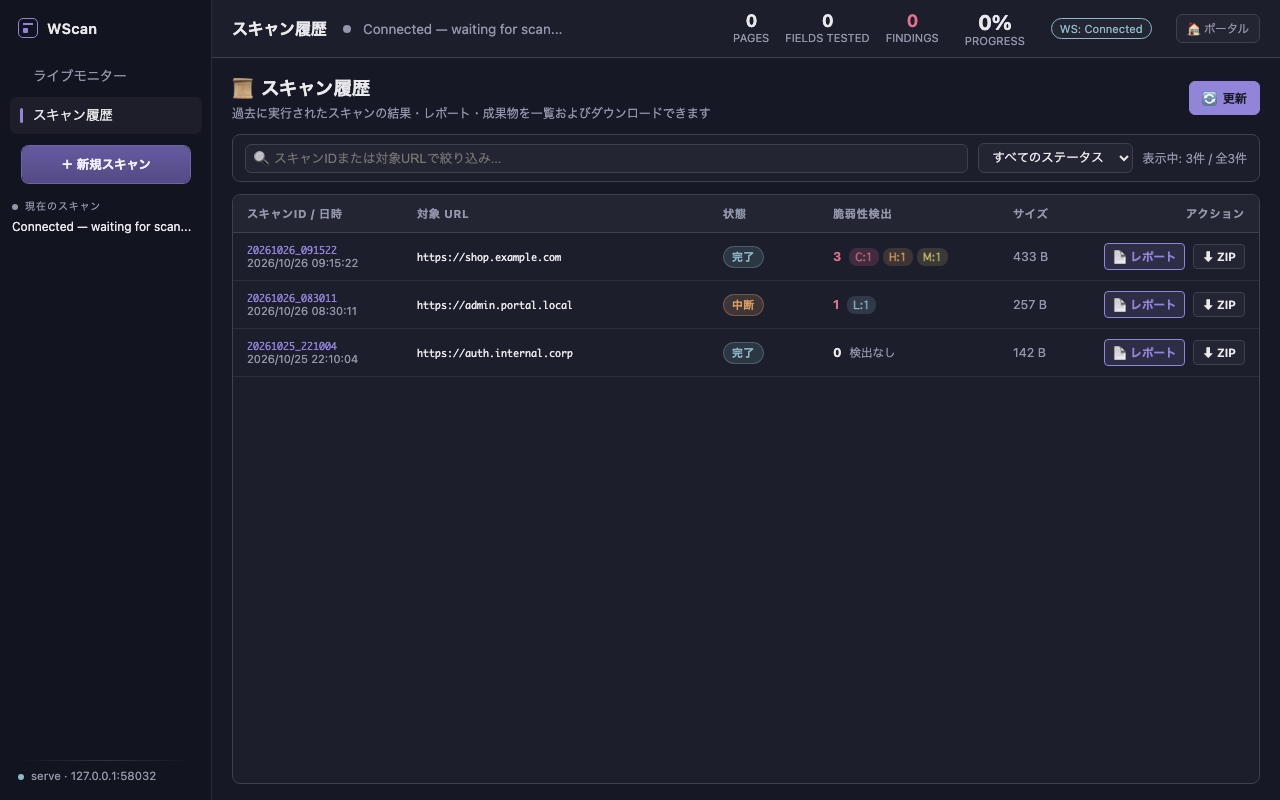
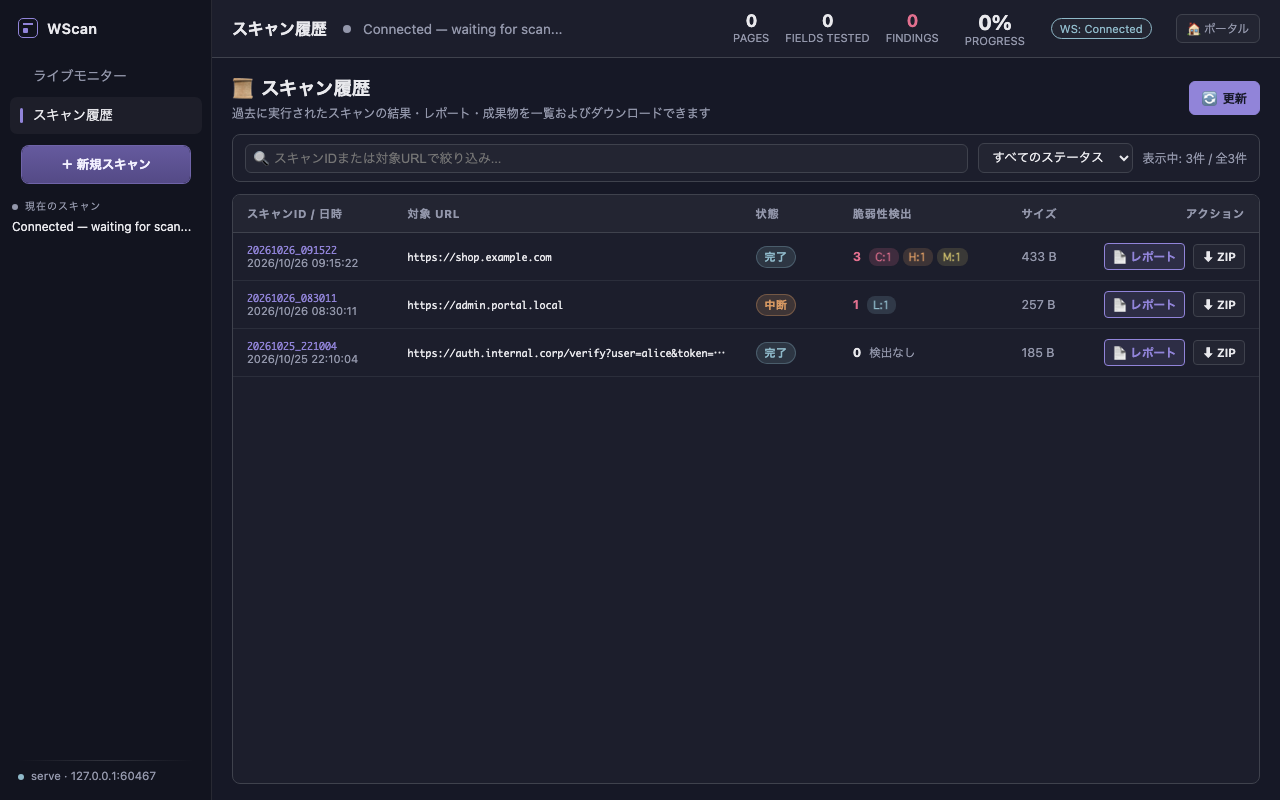
fix(dashboard): redact sensitive URL credentials in scan history and handle HTTP 401
- Implement redactDisplayUrl matching canonical SENSITIVE_URL_KEY to mask userinfo, query, and fragment secrets in history table display and tooltips
- Add HTTP 401 Unauthorized friendly error handling on scan history API fetch
- Expand tests in tests/test_dashboard_scan_history.py with URL privacy secret canary verification, HTTP 401/network error retry, and background WebSocket liveness
- Refresh screenshot in docs/images/dashboard-scan-history.png

diff --git a/templates/dashboard.html b/templates/dashboard.html
@@ -6638,6 +6638,55 @@ function onHistoryFilterChange(val) {
   renderHistoryTable();
 }
 
+function redactDisplayUrl(raw) {
+  if (!raw || typeof raw !== 'string') return raw || '';
+  const str = raw.trim();
+  if (!str) return '';
+  let result = str;
+  // 1. userinfo: scheme://user:pass@host -> scheme://<redacted>@host
+  const schemeMatch = str.match(/^[a-z][a-z0-9+.-]*:\/\//i);
+  if (schemeMatch) {
+    const after = str.slice(schemeMatch[0].length);
+    const cutIndices = [after.indexOf('/'), after.indexOf('?'), after.indexOf('#')].filter(i => i !== -1);
+    const authEnd = cutIndices.length ? Math.min(...cutIndices) : after.length;
+    const auth = after.slice(0, authEnd);
+    if (auth.includes('@')) {
+      const host = auth.slice(auth.lastIndexOf('@') + 1);
+      result = schemeMatch[0] + '<redacted>@' + host + after.slice(authEnd);
+    }
+  }
+
+  function maskKv(text) {
+    if (!text) return text;
+    return text.replace(/([^&=?\s]*)=([^&]*)/g, (match, k, v) => {
+      try {
+        const decoded = decodeURIComponent(k);
+        if (CONFIG_SENSITIVE_URL_KEY.test(decoded)) return `${k}=<redacted>`;
+      } catch (_) {
+        if (CONFIG_SENSITIVE_URL_KEY.test(k)) return `${k}=<redacted>`;
+      }
+      return match;
+    });
+  }
+
+  // 2. Query and fragment
+  if (result.includes('?')) {
+    const qParts = result.split('?', 2);
+    const base = qParts[0];
+    const rest = qParts[1];
+    if (rest.includes('#')) {
+      const fParts = rest.split('#', 2);
+      result = `${base}?${maskKv(fParts[0])}#${maskKv(fParts[1])}`;
+    } else {
+      result = `${base}?${maskKv(rest)}`;
+    }
+  } else if (result.includes('#')) {
+    const fParts = result.split('#', 2);
+    result = `${fParts[0]}#${maskKv(fParts[1])}`;
+  }
+  return result;
+}
+
 function formatHistoryBytes(bytes) {
   if (typeof bytes !== 'number' || isNaN(bytes) || bytes <= 0) return '—';
   if (bytes < 1024) return bytes + ' B';
@@ -6681,6 +6730,9 @@ async function loadScanHistory() {
   try {
     const res = await fetch('/api/v1/scans');
     if (!res.ok) {
+      if (res.status === 401) {
+        throw new Error('認証が必要です (HTTP 401 Unauthorized)。ログインするか認証トークンを確認してください。');
+      }
       throw new Error(`HTTP ${res.status}: ${res.statusText}`);
     }
     const data = await res.json();
@@ -6743,13 +6795,14 @@ function renderHistoryTable() {
     tdId.appendChild(dateDiv);
     tr.appendChild(tdId);
 
-    // 2. Target URL
+    // 2. Target URL (safely redacted to remove credential secrets)
     const tdTarget = document.createElement('td');
     const targetDiv = document.createElement('div');
     targetDiv.className = 'history-target-cell';
-    const targetText = scan.target ? scan.target.trim() : '—';
-    targetDiv.textContent = targetText;
-    targetDiv.title = targetText;
+    const rawTarget = scan.target ? scan.target.trim() : '';
+    const safeTarget = rawTarget ? redactDisplayUrl(rawTarget) : '—';
+    targetDiv.textContent = safeTarget;
+    targetDiv.title = safeTarget;
     tdTarget.appendChild(targetDiv);
     tr.appendChild(tdTarget);
 

diff --git a/tests/test_dashboard_scan_history.py b/tests/test_dashboard_scan_history.py
@@ -140,6 +140,16 @@ def test_dashboard_scan_history_playwright_e2e(tmp_path, monkeypatch):
         "findings": []
     }), encoding="utf-8")
 
+    # Add scan with secret canaries to verify URL privacy redaction
+    scan_secrets = tmp_path / "20261026_140000"
+    scan_secrets.mkdir()
+    (scan_secrets / "evidence.json").write_text(json.dumps({
+        "target": "https://admin:CANARY_SECRET_PASS@portal.corp/app?token=CANARY_QUERY_SECRET&safe=ok#access_token=CANARY_FRAG_SECRET",
+        "scan_date": "2026-10-26T14:00:00",
+        "status": "done",
+        "findings": []
+    }), encoding="utf-8")
+
     monkeypatch.setattr("wscan.monitor.OUTPUT_BASE", tmp_path)
 
     srv = MonitorServer()
@@ -174,7 +184,7 @@ def test_dashboard_scan_history_playwright_e2e(tmp_path, monkeypatch):
 
             # 4. Table Rows Populated
             rows = page.query_selector_all("#historyTable tbody tr")
-            assert len(rows) == 2
+            assert len(rows) == 3
 
             # Check done scan row
             row_html = page.inner_html("#historyTable tbody")
@@ -191,6 +201,14 @@ def test_dashboard_scan_history_playwright_e2e(tmp_path, monkeypatch):
             assert len(script_tags) == 0
             assert "&lt;script&gt;" in row_html or "<script>" in page.inner_text("#historyTable tbody")
 
+            # Verify URL privacy redaction: credential and sensitive query/fragment canaries are ABSENT
+            assert "CANARY_SECRET_PASS" not in row_html
+            assert "CANARY_QUERY_SECRET" not in row_html
+            assert "CANARY_FRAG_SECRET" not in row_html
+            # Verify redacted form appears in displayed text and title
+            assert "&lt;redacted&gt;@portal.corp" in row_html or "<redacted>@portal.corp" in page.inner_text("#historyTable tbody")
+            assert "token=&lt;redacted&gt;" in row_html or "token=<redacted>" in page.inner_text("#historyTable tbody")
+
             # 5. Search filtering
             page.fill("#historySearchInput", "malicious")
             filtered_rows = page.query_selector_all("#historyTable tbody tr")
@@ -200,12 +218,12 @@ def test_dashboard_scan_history_playwright_e2e(tmp_path, monkeypatch):
             # Clear search
             page.fill("#historySearchInput", "")
             all_rows = page.query_selector_all("#historyTable tbody tr")
-            assert len(all_rows) == 2
+            assert len(all_rows) == 3
 
             # Status filter
             page.select_option("#historyStatusFilter", "done")
             done_rows = page.query_selector_all("#historyTable tbody tr")
-            assert len(done_rows) == 1
+            assert len(done_rows) == 2
             assert "20261026_120000" in page.inner_text("#historyTable tbody")
 
             page.select_option("#historyStatusFilter", "all")
@@ -253,6 +271,111 @@ def test_dashboard_scan_history_empty_state(tmp_path, monkeypatch):
             assert page.is_visible("#historyEmptyState")
             assert not page.is_visible("#historyTableScroll")
             assert "スキャン履歴はありません" in page.inner_text("#historyEmptyState")
+
+            browser.close()
+    finally:
+        server_thread.stop()
+
+
+def test_dashboard_scan_history_fetch_error_and_401(tmp_path, monkeypatch):
+    """Test network error and 401 Unauthorized error state handling."""
+    monkeypatch.setattr("wscan.monitor.OUTPUT_BASE", tmp_path)
+
+    srv = MonitorServer()
+    port = find_free_port()
+    server_thread = UvicornServerThread(srv, port)
+    server_thread.start()
+
+    try:
+        with sync_playwright() as p:
+            browser = p.chromium.launch(headless=True)
+            page = browser.new_page()
+
+            # 1. Simulate 401 Unauthorized on /api/v1/scans
+            page.route("**/api/v1/scans", lambda route: route.fulfill(
+                status=401,
+                body=json.dumps({"detail": "Unauthorized"}),
+                headers={"Content-Type": "application/json"}
+            ))
+
+            page.goto(f"http://127.0.0.1:{port}/monitor")
+            page.click("#navScanHistory")
+            page.wait_for_selector("#historyErrorState")
+
+            assert page.is_visible("#historyErrorState")
+            assert not page.is_visible("#historyTableScroll")
+            err_text = page.inner_text("#historyErrorMessage")
+            assert "401" in err_text or "認証" in err_text
+
+            # 2. Simulate network / fetch failure
+            page.unroute("**/api/v1/scans")
+            page.route("**/api/v1/scans", lambda route: route.abort())
+
+            # Click retry button
+            page.click("#historyErrorState button")
+            page.wait_for_selector("#historyErrorState")
+            assert page.is_visible("#historyErrorState")
+
+            # 3. Simulate recovery after network restored
+            page.unroute("**/api/v1/scans")
+            page.route("**/api/v1/scans", lambda route: route.fulfill(
+                status=200,
+                body=json.dumps({"scans": [], "storage": {}}),
+                headers={"Content-Type": "application/json"}
+            ))
+            page.click("#historyErrorState button")
+            page.wait_for_selector("#historyEmptyState")
+            assert page.is_visible("#historyEmptyState")
+            assert not page.is_visible("#historyErrorState")
+
+            browser.close()
+    finally:
+        server_thread.stop()
+
+
+def test_dashboard_scan_history_background_ws_liveness(tmp_path, monkeypatch):
+    """Test that background WebSocket updates continue while scan history is open."""
+    monkeypatch.setattr("wscan.monitor.OUTPUT_BASE", tmp_path)
+
+    srv = MonitorServer()
+
+    async def emit_test_page():
+        await srv.emit("page_start", {"url": "https://example.com/live-test-page"})
+        return {"ok": True}
+
+    srv.app.add_api_route("/__test__/emit-page", emit_test_page, methods=["POST"])
+
+    port = find_free_port()
+    server_thread = UvicornServerThread(srv, port)
+    server_thread.start()
+
+    try:
+        with sync_playwright() as p:
+            browser = p.chromium.launch(headless=True)
+            page = browser.new_page()
+
+            page.goto(f"http://127.0.0.1:{port}/monitor")
+            page.wait_for_selector("#navLiveMonitor")
+
+            # Switch to Scan History
+            page.click("#navScanHistory")
+            assert page.is_visible("#viewScanHistory")
+            assert not page.is_visible("#viewLiveMonitor")
+
+            # Post to test endpoint inside uvicorn's event loop to trigger WS emit
+            res = page.request.post(f"http://127.0.0.1:{port}/__test__/emit-page")
+            assert res.status == 200
+
+            # Wait for client to process WebSocket message
+            page.wait_for_function("document.getElementById('statPages') && document.getElementById('statPages').textContent.trim() === '1'")
+
+            # Switch back to live monitor and verify state was preserved and updated
+            page.click("#navLiveMonitor")
+            assert page.is_visible("#viewLiveMonitor")
+            assert not page.is_visible("#viewScanHistory")
+
+            stat_pages = page.inner_text("#statPages")
+            assert "1" in stat_pages
 
             browser.close()
     finally:
